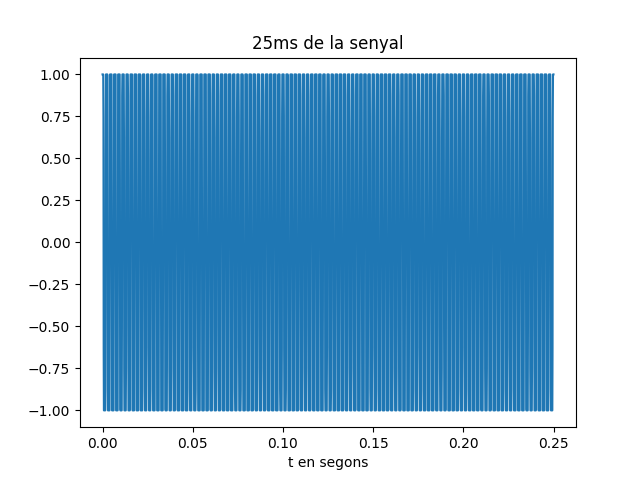
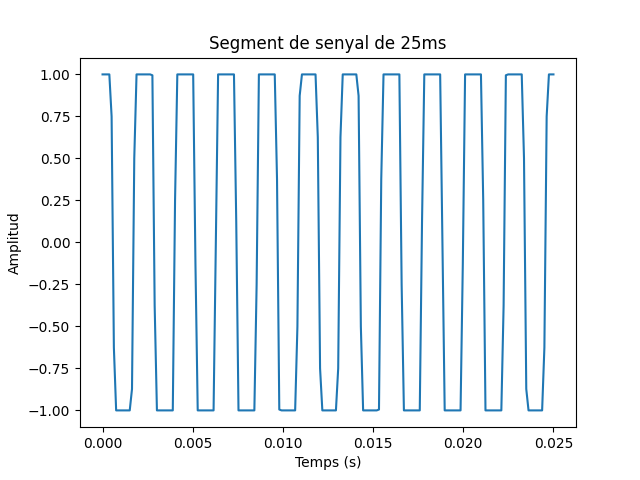
cambios

diff --git a/jsm_codi.py b/jsm_codi.py
@@ -155,8 +155,9 @@ X=fft(x[0 : Ls], N)           # Càlcul de la transformada de 5 períodes de la 
 
 k=np.arange(N)                        # Vector amb els valors 0≤  k<N
 
+modul = abs(X) 
 
-moduldb = 20 * math.log10(abs(X)/max(abs(X)))
+moduldb = 20 * np.log10(modul/max(modul))
 plt.figure(1)                         # Nova figura
 plt.subplot(fm/2)                      # Espai per representar el mòdul
 plt.plot(k,moduldb)                    # Representació del mòdul de la transformada
@@ -176,23 +177,54 @@ plt.show()
 # Representa la seva transformada en dB en funció de la freqüència, en el marge 
 # Quines son les freqüències més importants del segment triat?
 
+import numpy as np 
+import soundfile as sf
+import matplotlib.pyplot as plt 
+
+# fitxer d'àudio que vull llegir 
+fitxer = 'so_prueba.wav'
 x_r, fm = sf.read('so_prueba.wav')
-# frequencia de mostratge
-freq_mostratge = fm
-# durada del .wav
-T = 2.5
-# nombre de mostres de la senyal
-num_mostres = int(freq_mostratge * T)  
-# segment de 25ms 
-Ts = 0.25
-Ls = int(freq_mostratge * Ts)
-# Vector amb els valors de la variable temporal, de 0 a 25ms
-Tm = 1/freq_mostratge
-t=Tm*np.arange(num_mostres)       
-#grafica amb la evolucio temporal 
-plt.figure(0)                             # Nova figura
-plt.plot(t[0:Ls], x_r[0:Ls])                # Representació del senyal en funció del temps
-plt.xlabel('t en segons')                 # Etiqueta eix temporal
-plt.title('25ms de la senyal')            # Títol del gràfic
-plt.show()    
- 
+
+# Freqüència de mostratge:
+print('Freqüència de mostreig:', fm)
+
+# Nombre de mostres de senyal:
+print('Nombre de mostres de senyal:', len(x_r))
+
+# segmente de senyal de 25ms 
+inici_t = 0    # segons
+final_t = 0.025  # segons
+inici = int(inici_t * fm)
+final = int(final_t * fm)
+segment = x_r[inici:final]
+t = np.linspace(inici_t, final_t, len(segment))
+
+# Visualitzar el segment 
+plt.figure()
+plt.plot(t, segment)
+plt.xlabel('Temps (s)')
+plt.ylabel('Amplitud')
+plt.title('Segment de senyal de 25ms')
+plt.show()
+
+# Calcula la transformada de Fourier del segment de senyal i converteix a dB
+freq_eix = np.fft.fftfreq(len(segment)) * fm
+fft = np.abs(np.fft.fft(segment))
+fft_db = 20 * np.log10(fft)
+
+# Visualitzar la transformada en dB en funció de la freqüència
+plt.figure()
+plt.plot(freq_eix, fft_db)
+plt.xlabel('Freqüència (Hz)')
+plt.ylabel('Amplitud (dB)')
+plt.title('Transformada de Fourier del segment de senyal')
+plt.xlim(0, fm/2)
+plt.show()
+
+# freqüències més importants del segment de senyal
+max_indices = np.argsort(fft)[::-1][:5] 
+max_frequencies = freq_eix[max_indices]
+print('Les freqüències més importants del segment de senyal són:', max_frequencies)
+
+
+

diff --git a/jsm_entrega1.md b/jsm_entrega1.md
@@ -20,13 +20,24 @@ Representació del mòdul i la fase, en funció de la posició de cada valor:
 
 # 3. Representar el mòdul de la Transformada de Fourier en dB i l'eix d'abscisses en 0 a fm/2 en Hz
 
-moduldb = 20 * math.log10(abs(X)/max(abs(X)))
+modul = abs(X) 
+moduldb = 20 * np.log10(modul/max(modul))
 
 
 # 4. Llegir un fitxer d'audio
 
-x_r, fm = sf.read('so_f4k.wav')
+x_r, fm = sf.read('so_prueba.wav')
 
  Evolució temporal d'un segment de 25ms del senyal: 
 
  <img src="img/25ms senyal.png" width="480" align="center">
+
+ Transformada en dB en funció de la freqüència:
+
+<img src="img/Transformada.png" width="480" align="center">
+
+Frequències més importants del segment: 
+
+Per saber les freqüències més importants, hem de saber els punts màxims de la Transformada de Fourier (FFT) en dB, es a dir, les freqüències que tenen més amplitud.
+
+Això es pot fer amb la funció argmax de Numpy per trobar la posició del valor màxim i llavors consultar el valor corresponent en l'eix de freqüència.
